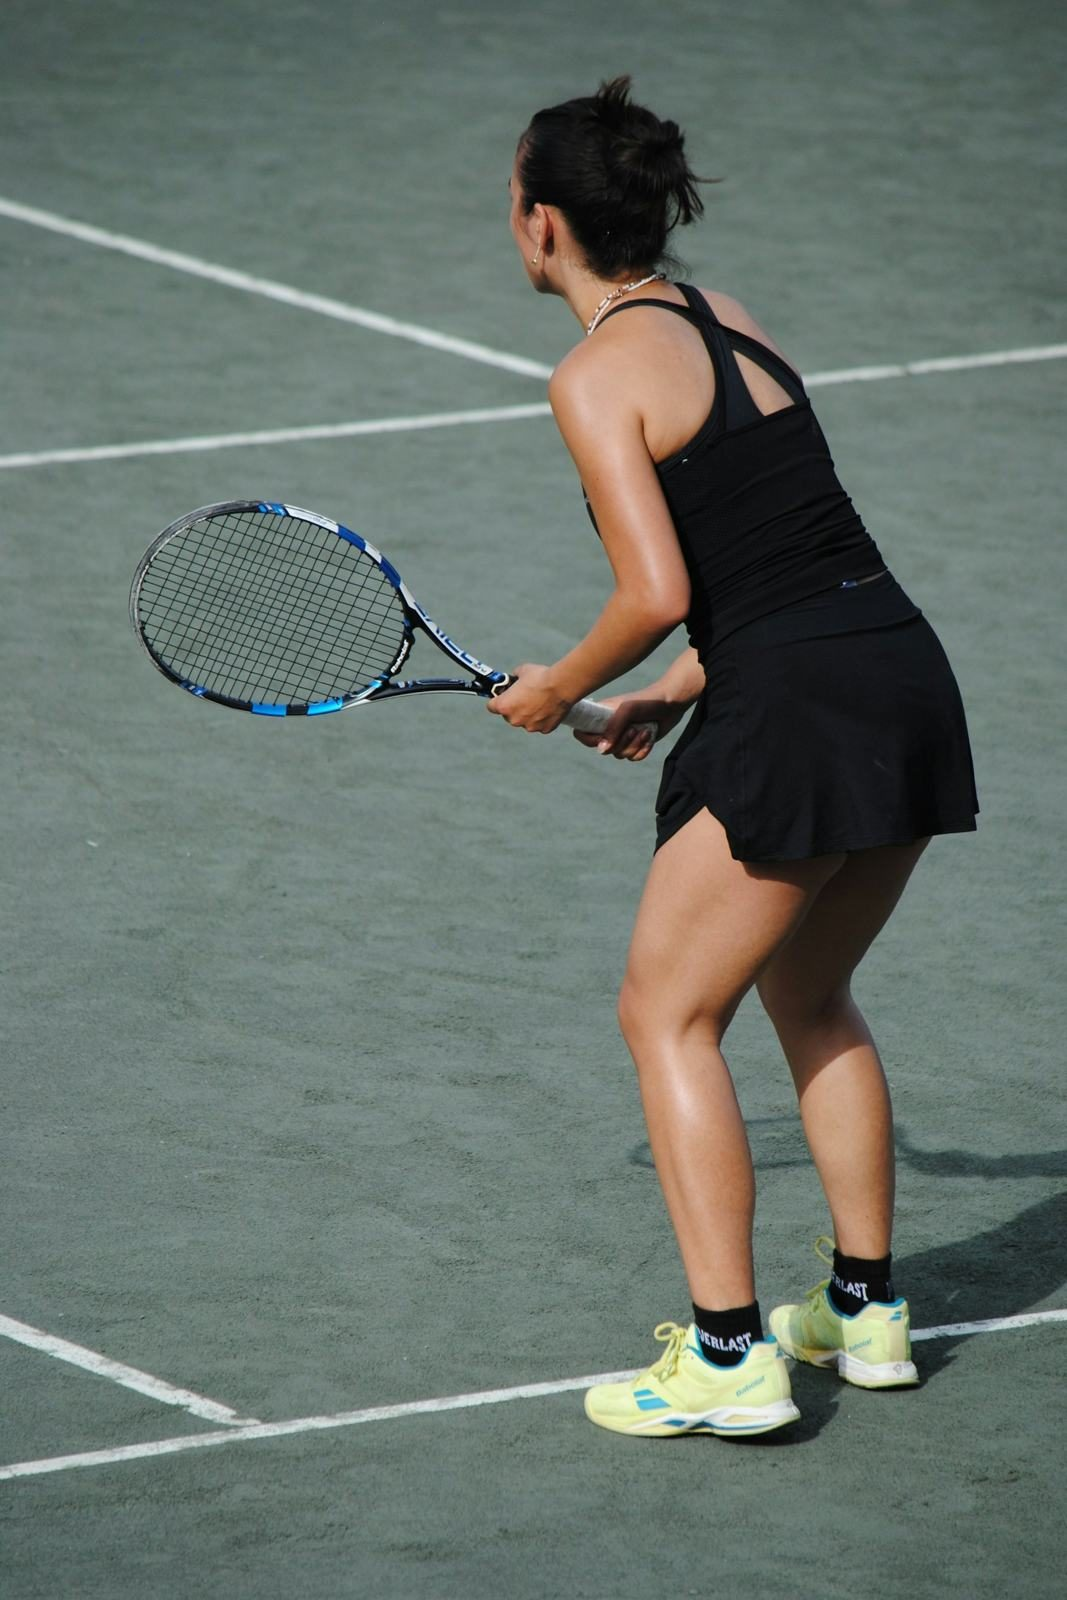
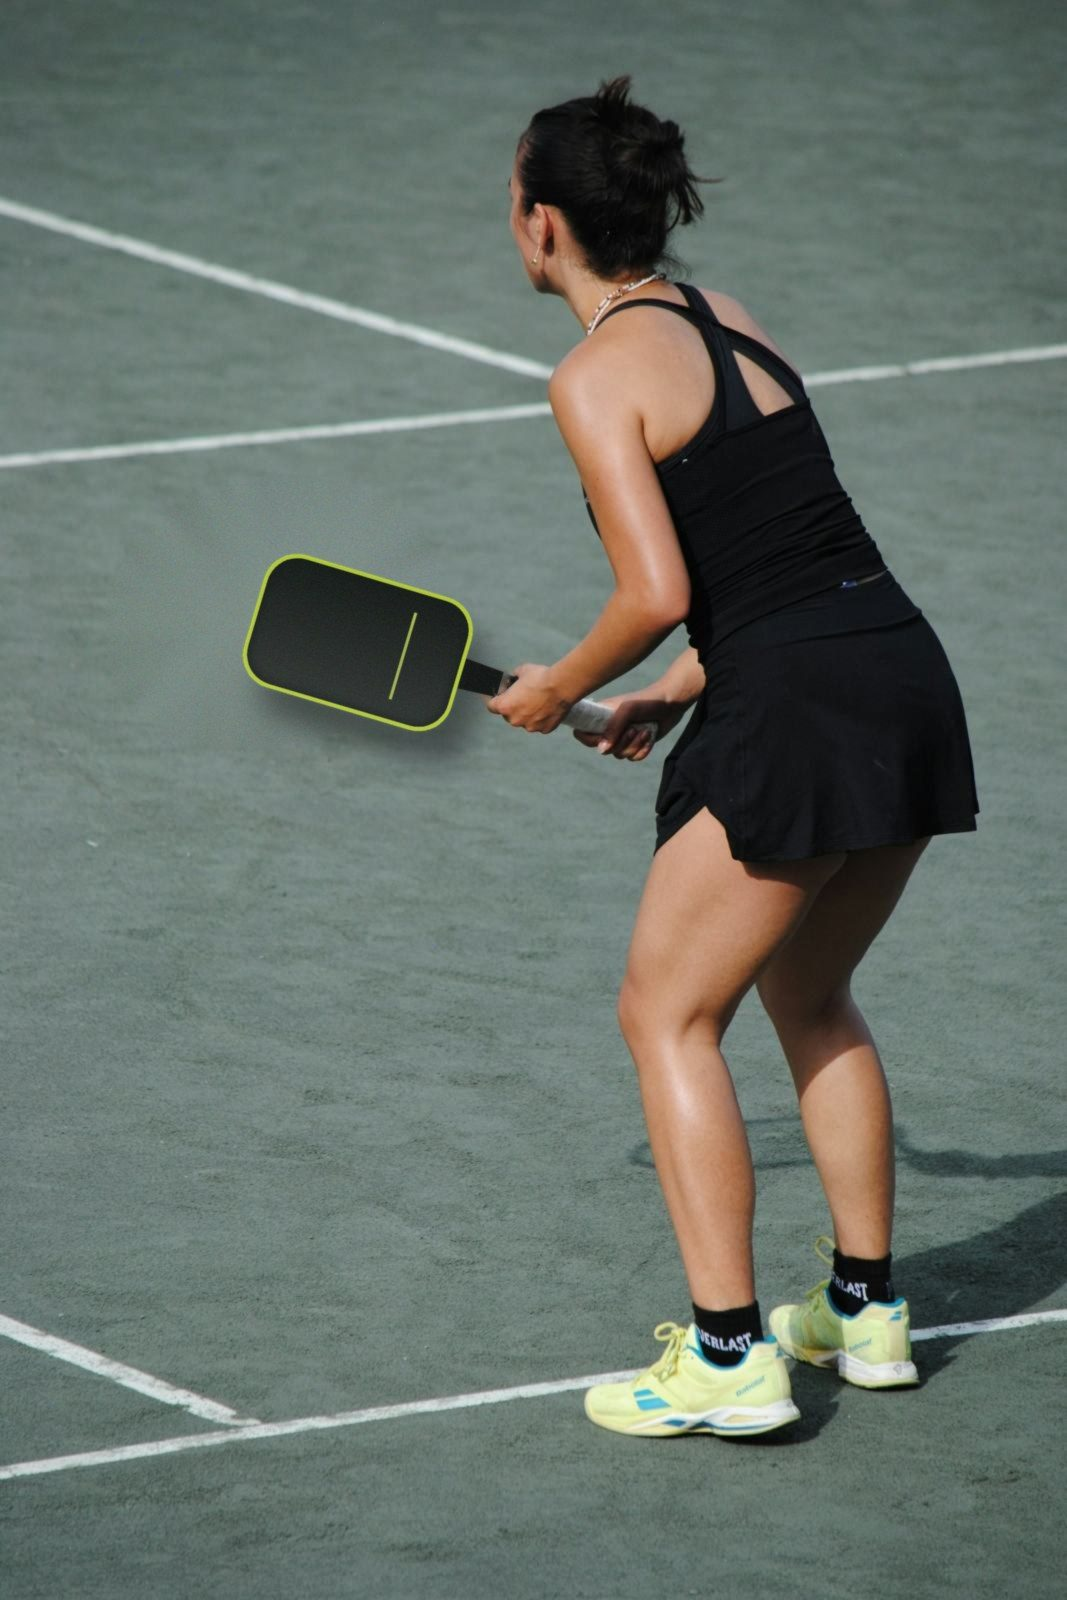
Meera photo: real pickleball paddle, full figure on desktop hero
- Tennis racket replaced with a real pickleball paddle (from a free Unsplash
  photo, recoloured charcoal), smaller and in her hand
- Desktop hero uses a wide version with the fade built in, so her head and
  full figure show; phones keep the normal photo

Claude-Session: https://claude.ai/code/session_01QHmcLKMozxJCAjmNARvJqD

Changed region(s): [[0.1237, 0.3125, 0.4948, 0.5]]

diff --git a/src/rallyq/home/Main.html b/src/rallyq/home/Main.html
@@ -18,7 +18,7 @@ a{color:#D9F24A}a:hover{color:#F1F4EA}
 .slides div{position:absolute;inset:0;background-size:cover;background-position:center;opacity:0;transform:scale(1.06);transition:opacity 1.6s ease,transform 8s ease-out}
 .slides div.on{opacity:1;transform:scale(1)}
 .slides .s0{background-image:url(/_blob/667708e902955635c36442a4f43f8971)}
-.slides .s1{background-image:url(/_blob/2380ef36eac416d5153a483115c63a4b);background-position:center 30%}
+.slides .s1{background-image:url(/_blob/2380ef36eac416d5153a483115c63a4b);background-position:70% 2%}
 .slides .s2{background-image:url(/_blob/0b9a15da42bd9e454eb1adb978b47511);background-position:center 50%}
 .tint{position:absolute;inset:0;z-index:-2;background:rgba(5,50,28,.55);mix-blend-mode:multiply}
 .over{position:absolute;inset:0;z-index:-1;background:linear-gradient(90deg,rgba(6,20,13,.94) 0%,rgba(6,20,13,.88) 26%,rgba(6,20,13,.3) 72%),linear-gradient(0deg,#06140D 0%,transparent 30%),linear-gradient(180deg,rgba(6,20,13,.6),transparent 18%)}

diff --git a/src/rallyq/prototypes/Main.dc.html b/src/rallyq/prototypes/Main.dc.html
@@ -18,7 +18,7 @@ a{color:#D9F24A}a:hover{color:#F1F4EA}
 .slides div{position:absolute;inset:0;background-size:cover;background-position:center;opacity:0;transform:scale(1.06);transition:opacity 1.6s ease,transform 8s ease-out}
 .slides div.on{opacity:1;transform:scale(1)}
 .slides .s0{background-image:url(/_blob/667708e902955635c36442a4f43f8971)}
-.slides .s1{background-image:url(/_blob/2380ef36eac416d5153a483115c63a4b);background-position:center 30%}
+.slides .s1{background-image:url(/_blob/2380ef36eac416d5153a483115c63a4b);background-position:70% 2%}
 .slides .s2{background-image:url(/_blob/0b9a15da42bd9e454eb1adb978b47511);background-position:center 50%}
 .tint{position:absolute;inset:0;z-index:-2;background:rgba(5,50,28,.55);mix-blend-mode:multiply}
 .over{position:absolute;inset:0;z-index:-1;background:linear-gradient(90deg,rgba(6,20,13,.94) 0%,rgba(6,20,13,.88) 26%,rgba(6,20,13,.3) 72%),linear-gradient(0deg,#06140D 0%,transparent 30%),linear-gradient(180deg,rgba(6,20,13,.6),transparent 18%)}

diff --git a/src/rallyq/rallyq.css b/src/rallyq/rallyq.css
@@ -21,6 +21,7 @@
 .rallyq-prototype .rq .chip{white-space:nowrap}
 
 /* Meera photo: slow drift inside its card (never steps out) */
-@keyframes rqDrift{from{background-position:50% 18%}to{background-position:50% 42%}}
+@keyframes rqDrift{from{background-position:65% 0%}to{background-position:65% 14%}}
 .rallyq-prototype .rq .ph-man,.rallyq-prototype .rq .ph-woman{animation:rqDrift 12s ease-in-out infinite alternate}
 @media (prefers-reduced-motion:reduce){.rallyq-prototype .rq .ph-man,.rallyq-prototype .rq .ph-woman{animation:none}}
+@media (min-width:761px){.rallyq-screen-main .rq .slides .s1{background-image:url(/rallyq/meera-hero.jpg)!important;background-size:cover!important;background-position:100% 0%!important}}
